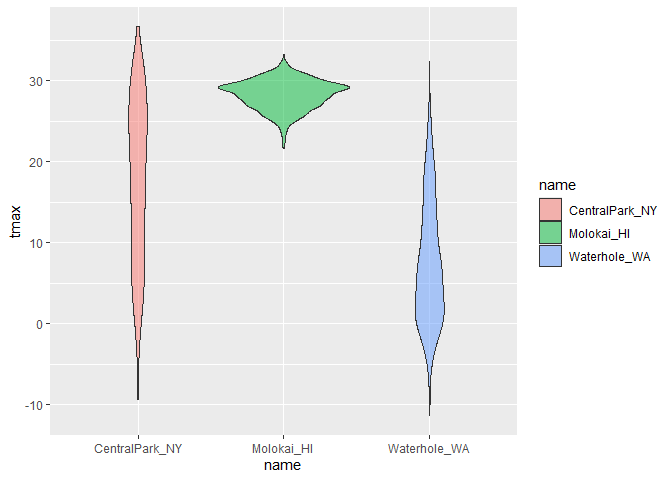
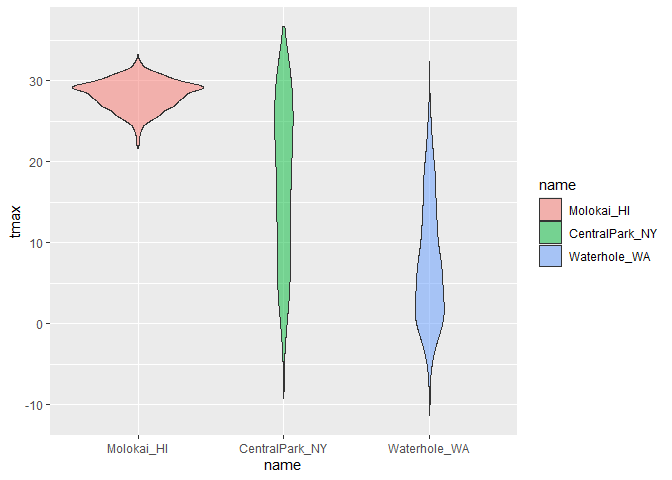
SAS file and tidyness

diff --git a/Visualisation_EDA.md b/Visualisation_EDA.md
@@ -309,7 +309,9 @@ ggp_temp_season
 Let’s make temperature violin plots
 
 ``` r
-weather_df |> 
+weather_df |>
+  mutate(name = fct_relevel(name, c("Molokai_HI", "CentralPark_NY", "Waterhole_WA"))) |> 
+  
   ggplot(aes(x = name, y = tmax, fill = name)) + 
   geom_violin(alpha = 0.5)
 ```
@@ -318,3 +320,45 @@ weather_df |>
     ## (`stat_ydensity()`).
 
 ![](Visualisation_EDA_files/figure-gfm/unnamed-chunk-13-1.png)<!-- -->
+
+``` r
+weather_df |> 
+  mutate(name = fct_reorder(name, tmax)) |> 
+  ggplot(aes(x = name, y = tmax, fill = name)) + 
+  geom_violin(alpha = 0.5)
+```
+
+    ## Warning: There was 1 warning in `mutate()`.
+    ## ℹ In argument: `name = fct_reorder(name, tmax)`.
+    ## Caused by warning:
+    ## ! `fct_reorder()` removing 17 missing values.
+    ## ℹ Use `.na_rm = TRUE` to silence this message.
+    ## ℹ Use `.na_rm = FALSE` to preserve NAs.
+
+    ## Warning: Removed 17 rows containing non-finite outside the scale range
+    ## (`stat_ydensity()`).
+
+![](Visualisation_EDA_files/figure-gfm/unnamed-chunk-14-1.png)<!-- -->
+
+What about data tidiness?
+
+``` r
+pulse_df =
+  haven::read_sas("./data/public_pulse_data.sas7bdat") |> 
+  janitor::clean_names() |> 
+  pivot_longer(
+    bdi_score_bl:bdi_score_12m,
+    names_to = "visit",
+    values_to = "bdi"
+  ) |> 
+    mutate(visit = fct_inorder(visit))
+
+pulse_df |> 
+  ggplot(aes(x = visit, y = bdi)) +
+  geom_boxplot()
+```
+
+    ## Warning: Removed 879 rows containing non-finite outside the scale range
+    ## (`stat_boxplot()`).
+
+![](Visualisation_EDA_files/figure-gfm/unnamed-chunk-15-1.png)<!-- -->
